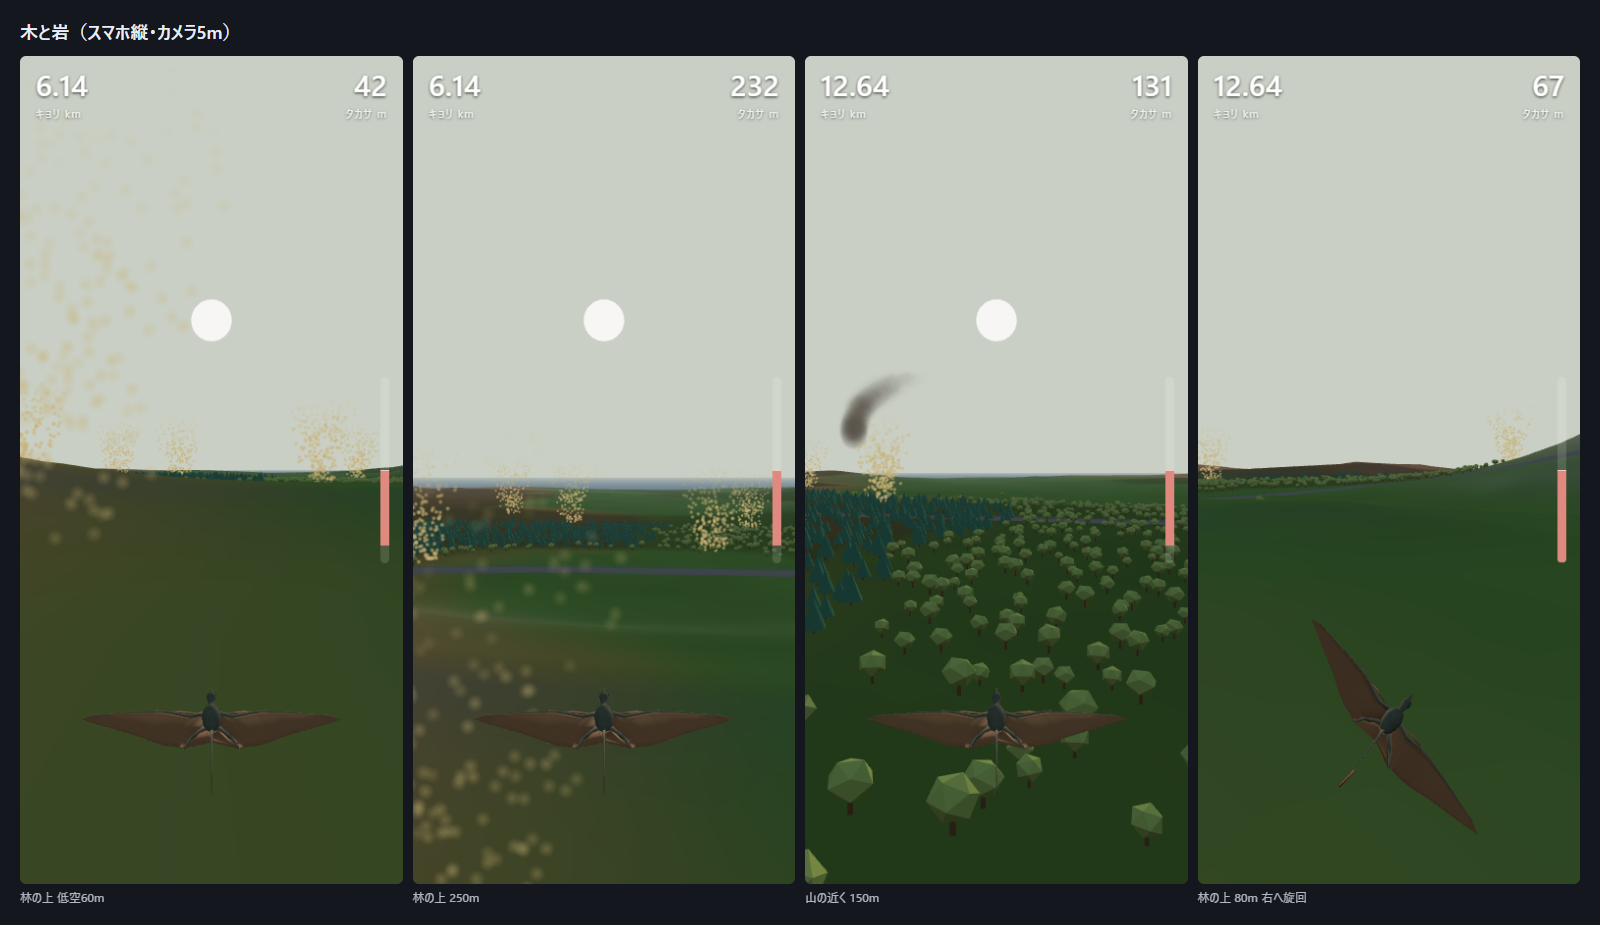
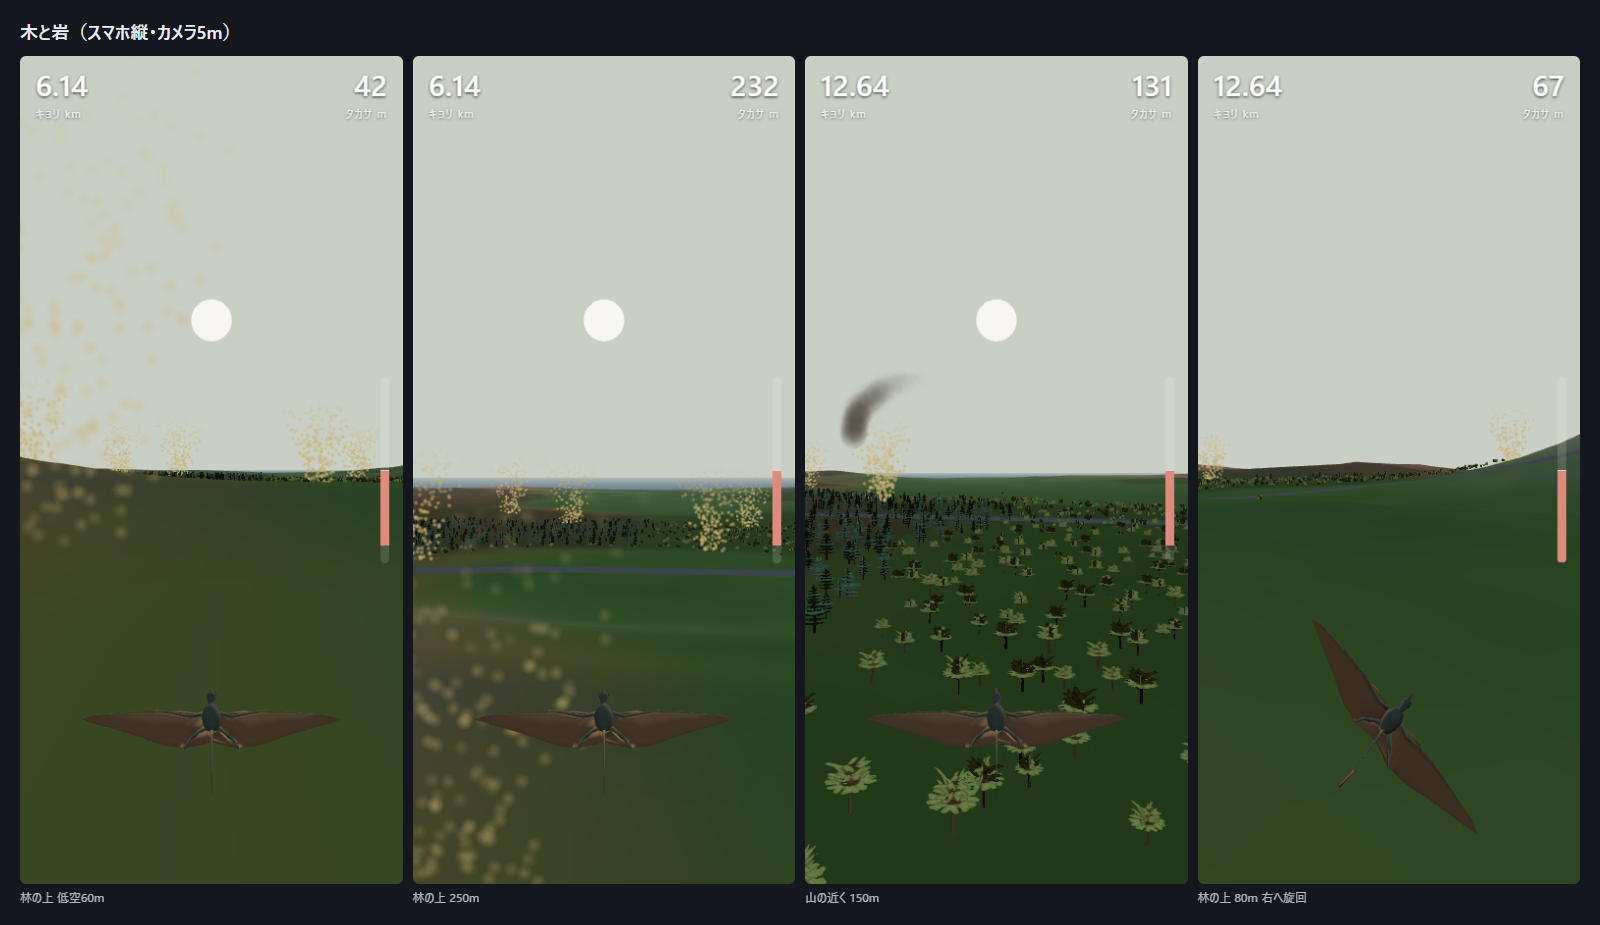
所長の試走の3件: 木の急な切り替わり・距離が増えない・タッチで文字選択
- 遠景の木を、Astraの木を撮った画像の板に(1本6三角形)。90〜150mでディザで少しずつ入れ替え
  以前はClaudeの円錐と多面体で、近づくと別物に切り替わって見えた。普段の三角形 235k -> 87k
- 距離を出発点からの直線距離に。以前は北へ進んだ分だけで、東へ飛ぶと0.00kmのままだった
- ページ全体で文字選択と長押しメニューを止めた(check-noselect を追加)
- check-frame は大きさごとに新しいブラウザで開く(同じブラウザの2ページ目で読み込みが止まる検査環境の罠)

diff --git a/src/scene.js b/src/scene.js
@@ -258,27 +258,81 @@ class Clouds {
   }
 }
 
-// 遠景用の木。原型と同じ大きさ(針葉樹 幅5.2×高さ7.8m / イチョウ 幅4.8×高さ5.7m)で、色は原型の材質の色
-function farTree(kind) {
-  const bark = new THREE.Color(0.16, 0.08, 0.03).multiplyScalar(1.35);
-  const parts = [];
-  const add = (geo, color, y) => {
-    const g = geo.toNonIndexed(); g.translate(0, y, 0);
-    for (const name of Object.keys(g.attributes)) if (name !== 'position' && name !== 'normal') g.deleteAttribute(name);
-    const n = g.attributes.position.count, col = new Float32Array(n * 3);
-    for (let i = 0; i < n; i++) { col[i * 3] = color.r; col[i * 3 + 1] = color.g; col[i * 3 + 2] = color.b; }
-    g.setAttribute('color', new THREE.BufferAttribute(col, 3));
-    parts.push(g);
+// ---- 木の近景と遠景の入れ替え ----
+// 遠景は、読み込んだAstraの木を横と上から撮った画像を板に貼ったもの(1本6三角形)。
+// 以前は円錐と多面体の代わりの形で、近づくと別物に切り替わって見えた(所長「変化が大きすぎて受け入れ難い」)。
+const FADE_NEAR = 90, FADE_FAR = 150;        // この距離の間で、近景と遠景を少しずつ入れ替える
+
+// 近景と遠景で同じ乱れ方を使い、足すとちょうど1本分になるように消す(穴も二重にもならない)
+function addDistanceFade(material, isFar) {
+  material.onBeforeCompile = shader => {
+    shader.uniforms.uFadeA = { value: FADE_NEAR };
+    shader.uniforms.uFadeB = { value: FADE_FAR };
+    shader.vertexShader = shader.vertexShader
+      .replace('void main() {', 'varying float vFadeD;\nvoid main() {')
+      .replace('#include <project_vertex>', [
+        '#include <project_vertex>',
+        '  #ifdef USE_INSTANCING',
+        '    vFadeD = distance((modelMatrix * instanceMatrix * vec4(0.0, 0.0, 0.0, 1.0)).xyz, cameraPosition);',
+        '  #else',
+        '    vFadeD = distance((modelMatrix * vec4(0.0, 0.0, 0.0, 1.0)).xyz, cameraPosition);',
+        '  #endif',
+      ].join('\n'));
+    shader.fragmentShader = shader.fragmentShader
+      .replace('void main() {', 'uniform float uFadeA;\nuniform float uFadeB;\nvarying float vFadeD;\nvoid main() {')
+      .replace('#include <clipping_planes_fragment>', [
+        '#include <clipping_planes_fragment>',
+        '  {',
+        '    float fadeT = clamp((vFadeD - uFadeA) / (uFadeB - uFadeA), 0.0, 1.0);',
+        '    float fadeH = fract(sin(dot(floor(gl_FragCoord.xy), vec2(12.9898, 78.233))) * 43758.5453);',
+        isFar ? '    if (fadeH < 1.0 - fadeT) discard;' : '    if (fadeH > 1.0 - fadeT) discard;',
+        '  }',
+      ].join('\n'));
   };
-  if (kind === 'conifer') {
-    add(new THREE.CylinderGeometry(0.25, 0.35, 1.6, 5, 1, true), bark, 0.8);   // 上下のふたは見えないので省く
-    add(new THREE.ConeGeometry(2.6, 6.4, 7), new THREE.Color(0.05, 0.18, 0.1).multiplyScalar(1.35), 1.4 + 3.2);
-  } else {
-    add(new THREE.CylinderGeometry(0.25, 0.35, 2.6, 5, 1, true), bark, 1.3);
-    const crown = new THREE.IcosahedronGeometry(2.4, 0); crown.scale(1, 0.85, 1);
-    add(crown, new THREE.Color(0.32, 0.45, 0.1).multiplyScalar(1.35), 3.6);
-  }
-  return mergeGeometries(parts, false);
+  material.customProgramCacheKey = () => (isFar ? 'fade-far' : 'fade-near');
+}
+
+// Astraの木を撮って、遠景の板を作る。画像の左半分=横から、右下=上から
+function bakeImpostor(renderer, geo) {
+  geo.computeBoundingBox();
+  const bb = geo.boundingBox;
+  const w = Math.max(bb.max.x - bb.min.x, bb.max.z - bb.min.z), h = bb.max.y - bb.min.y;
+  const rt = new THREE.WebGLRenderTarget(512, 512, { generateMipmaps: true, minFilter: THREE.LinearMipmapLinearFilter });
+  const scene = new THREE.Scene();
+  // 色だけ撮る。光は板の側で当てる
+  scene.add(new THREE.Mesh(geo, new THREE.MeshBasicMaterial({ vertexColors: true, side: THREE.DoubleSide })));
+  const side = new THREE.OrthographicCamera(-w / 2, w / 2, bb.max.y, bb.min.y, 0.1, 1000);
+  side.position.set(0, 0, 500); side.lookAt(0, 0, 0);
+  const top = new THREE.OrthographicCamera(-w / 2, w / 2, w / 2, -w / 2, 0.1, 2000);
+  top.position.set(0, 1000, 0); top.up.set(0, 0, -1); top.lookAt(0, 0, 0);
+  const prevTarget = renderer.getRenderTarget();
+  const prevColor = renderer.getClearColor(new THREE.Color()), prevAlpha = renderer.getClearAlpha();
+  renderer.setRenderTarget(rt);
+  // 透明な背景を黒にすると、遠くで画像を縮めたときに黒と混ざって暗くなった。背景は木自身の平均の色(透明)にする
+  const col = geo.attributes.color.array; const avg = new THREE.Color(0, 0, 0);
+  for (let i = 0; i < col.length; i += 3) { avg.r += col[i]; avg.g += col[i + 1]; avg.b += col[i + 2]; }
+  avg.multiplyScalar(3 / col.length);
+  renderer.setClearColor(avg, 0); renderer.clear();
+  rt.scissorTest = true;
+  rt.viewport.set(0, 0, 256, 512); rt.scissor.set(0, 0, 256, 512); renderer.setRenderTarget(rt); renderer.render(scene, side);
+  rt.viewport.set(256, 0, 256, 256); rt.scissor.set(256, 0, 256, 256); renderer.setRenderTarget(rt); renderer.render(scene, top);
+  rt.scissorTest = false; rt.viewport.set(0, 0, 512, 512); rt.scissor.set(0, 0, 512, 512);
+  renderer.setRenderTarget(prevTarget); renderer.setClearColor(prevColor, prevAlpha);
+  // 十字の縦板2枚＋樹冠の高さの水平板1枚。法線は上向きにそろえ、向きで明るさが変わらないようにする
+  const pos = [], uv = [], nrm = [];
+  const quad = (a, b, c, d, ua, ub, uc, ud) => {
+    for (const [p, u] of [[a, ua], [b, ub], [c, uc], [a, ua], [c, uc], [d, ud]]) { pos.push(...p); uv.push(...u); nrm.push(0, 1, 0); }
+  };
+  const y0 = bb.min.y, y1 = bb.max.y, r = w / 2;
+  quad([-r, y0, 0], [r, y0, 0], [r, y1, 0], [-r, y1, 0], [0, 0], [0.5, 0], [0.5, 1], [0, 1]);
+  quad([0, y0, -r], [0, y0, r], [0, y1, r], [0, y1, -r], [0, 0], [0.5, 0], [0.5, 1], [0, 1]);
+  const yc = y0 + (y1 - y0) * 0.62;
+  quad([-r, yc, r], [r, yc, r], [r, yc, -r], [-r, yc, -r], [0.5, 0], [1, 0], [1, 0.5], [0.5, 0.5]);
+  const g = new THREE.BufferGeometry();
+  g.setAttribute('position', new THREE.Float32BufferAttribute(pos, 3));
+  g.setAttribute('normal', new THREE.Float32BufferAttribute(nrm, 3));
+  g.setAttribute('uv', new THREE.Float32BufferAttribute(uv, 2));
+  return { geo: g, texture: rt.texture };
 }
 
 // 木と岩。種類×近景/遠景ごとに1つの InstancedMesh(描画1回)にまとめる。
@@ -291,65 +345,66 @@ class Forest {
     this.ready = false; this.last = null;
     this.counts = {};
   }
-  async load(baseUrl) {
+  async load(baseUrl, renderer) {
     const loader = new GLTFLoader();
-    const CAP = { lod0: 60, lod1: 12000 };
-    const mat = new THREE.MeshLambertMaterial({ vertexColors: true });
+    const CAP = { lod0: 150, lod1: 12000 };
     for (const kind of ['conifer', 'ginkgo', 'rock']) {
-      for (const lod of ['lod0', 'lod1']) {
-        if (kind === 'rock' && lod === 'lod1') continue;            // 岩は18三角形なので1種類で足りる
-        if (lod === 'lod1') {
-          // 遠景はGLBを減らした版ではなく単純な形。減らした版はイチョウの葉が消えて幹だけになった
-          const geo = farTree(kind);
-          const im = new THREE.InstancedMesh(geo, mat, CAP.lod1);
-          im.count = 0; im.frustumCulled = false;
-          im.userData.tris = geo.attributes.position.count / 3;
-          this.meshes[`${kind}_${lod}`] = im; this.scene.add(im);
-          continue;
-        }
-        const gltf = await loader.loadAsync(`${baseUrl}models/veg/${kind}_${lod}.glb`);
-        const parts = [];
-        gltf.scene.updateMatrixWorld(true);
-        gltf.scene.traverse(o => {
-          if (!o.isMesh) return;
-          const g = o.geometry.clone().applyMatrix4(o.matrixWorld);
-          for (const name of Object.keys(g.attributes)) if (name !== 'position' && name !== 'normal') g.deleteAttribute(name);
-          const c = (o.material && o.material.color) ? o.material.color.clone().multiplyScalar(1.35) : new THREE.Color(0.3, 0.3, 0.3);
-          const n = g.attributes.position.count, col = new Float32Array(n * 3);
-          for (let i = 0; i < n; i++) { col[i * 3] = c.r; col[i * 3 + 1] = c.g; col[i * 3 + 2] = c.b; }
-          g.setAttribute('color', new THREE.BufferAttribute(col, 3));
-          parts.push(g.index ? g : g);
-        });
-        const geo = mergeGeometries(parts, false);
-        const cap = kind === 'rock' ? CAP.lod1 : CAP[lod];
-        const im = new THREE.InstancedMesh(geo, mat, cap);
+      const gltf = await loader.loadAsync(baseUrl + 'models/veg/' + kind + '_lod0.glb');
+      const parts = [];
+      gltf.scene.updateMatrixWorld(true);
+      gltf.scene.traverse(o => {
+        if (!o.isMesh) return;
+        const g = o.geometry.clone().applyMatrix4(o.matrixWorld);
+        for (const name of Object.keys(g.attributes)) if (name !== 'position' && name !== 'normal') g.deleteAttribute(name);
+        const c = (o.material && o.material.color) ? o.material.color.clone().multiplyScalar(1.35) : new THREE.Color(0.3, 0.3, 0.3);
+        const n = g.attributes.position.count, col = new Float32Array(n * 3);
+        for (let i = 0; i < n; i++) { col[i * 3] = c.r; col[i * 3 + 1] = c.g; col[i * 3 + 2] = c.b; }
+        g.setAttribute('color', new THREE.BufferAttribute(col, 3));
+        parts.push(g);
+      });
+      const geo = mergeGeometries(parts, false);
+      const add = (key, g, mat, cap) => {
+        const im = new THREE.InstancedMesh(g, mat, cap);
         im.count = 0; im.frustumCulled = false;
-        im.userData.tris = (geo.index ? geo.index.count : geo.attributes.position.count) / 3;
-        this.meshes[`${kind}_${lod}`] = im;
-        this.scene.add(im);
+        im.userData.tris = (g.index ? g.index.count : g.attributes.position.count) / 3;
+        this.meshes[key] = im; this.scene.add(im);
+      };
+      if (kind === 'rock') {                          // 岩は18三角形なので入れ替えなし
+        add('rock_lod0', geo, new THREE.MeshLambertMaterial({ vertexColors: true }), CAP.lod1);
+        continue;
       }
+      const nearMat = new THREE.MeshLambertMaterial({ vertexColors: true });
+      addDistanceFade(nearMat, false);
+      add(kind + '_lod0', geo, nearMat, CAP.lod0);
+      const imp = bakeImpostor(renderer, geo);
+      const farMat = new THREE.MeshLambertMaterial({ map: imp.texture, alphaTest: 0.4, side: THREE.DoubleSide });
+      addDistanceFade(farMat, true);
+      add(kind + '_lod1', imp.geo, farMat, CAP.lod1);
     }
     this.ready = true;
   }
   update(px, py) {
     if (!this.ready || this.frozen) return;
-    // 150m動くごとに並べ直す(毎コマはやらない)
-    if (this.last && Math.hypot(px - this.last[0], py - this.last[1]) < 150) return;
+    // 40m動くごとに並べ直す。入れ替えの帯(90〜150m)に入る木を、近景と遠景の両方に必ず入れておくため
+    if (this.last && Math.hypot(px - this.last[0], py - this.last[1]) < 40) return;
     this.last = [px, py];
     const idx = {};
     for (const k of Object.keys(this.meshes)) idx[k] = 0;
     const m = new THREE.Matrix4(), q = new THREE.Quaternion(), p = new THREE.Vector3(), sc = new THREE.Vector3(), up = new THREE.Vector3(0, 1, 0);
     for (const it of this.veg.around(px, py)) {
-      let key = it.kind === 'rock' ? 'rock_lod0' : `${it.kind}_${it.near ? 'lod0' : 'lod1'}`;
-      if (it.near && it.kind !== 'rock' && idx[key] >= this.meshes[key].instanceMatrix.count) key = `${it.kind}_lod1`;   // 近景が満杯なら遠景の形で
-      const im = this.meshes[key];
-      if (!im || idx[key] >= im.instanceMatrix.count) continue;
       const s = VEG.scale[it.kind] * it.s;
       q.setFromAxisAngle(up, it.rot);
       p.set(SX * it.x, it.z - 0.4 * s, it.y);          // 斜面でも浮かないよう少し沈める
       sc.set(s, s, s);
       m.compose(p, q, sc);
-      im.setMatrixAt(idx[key]++, m);
+      // 近景と遠景のどちらに入れるか。帯の前後に並べ直しの間隔(40m)ぶん余裕を持たせる。描く/消すはシェーダが距離で決める
+      const keys = it.kind === 'rock' ? ['rock_lod0']
+        : [...(it.d <= FADE_FAR + 50 ? [it.kind + '_lod0'] : []), ...(it.d >= FADE_NEAR - 50 ? [it.kind + '_lod1'] : [])];
+      for (const key of keys) {
+        const im = this.meshes[key];
+        if (!im || idx[key] >= im.instanceMatrix.count) continue;
+        im.setMatrixAt(idx[key]++, m);
+      }
     }
     for (const [k, im] of Object.entries(this.meshes)) {
       im.count = idx[k];

diff --git a/src/main.js b/src/main.js
@@ -38,7 +38,7 @@ const camk = Number(q.get('camk'));                              // 調整用: ?
 const SIZE = q.has('camk') && camk > 0 ? { ...SIZES[SIZE_KEY], cam: camk } : SIZES[SIZE_KEY];
 const view = new View(el('app'), terrain, field, camOf(CAM_KEY), SIZE);
 if (!q.has('box')) view.loadModel(import.meta.env.BASE_URL + 'models/rh02.glb');   // ?box で灰色の箱のまま
-if (!q.has('notrees')) view.forest.load(import.meta.env.BASE_URL).catch(e => console.error('木の読み込みに失敗', e));   // ?notrees で木なし(比較用)
+if (!q.has('notrees')) view.forest.load(import.meta.env.BASE_URL, view.renderer).catch(e => console.error('木の読み込みに失敗', e));   // ?notrees で木なし(比較用)
 
 // スタート画面のカメラ選択。選んだものは次回も使う
 const camButtons = [...document.querySelectorAll('#cams button')];
@@ -69,6 +69,9 @@ cv.addEventListener('pointermove', e => { if (touch.has(e.pointerId)) touch.set(
 const drop = e => touch.delete(e.pointerId);
 cv.addEventListener('pointerup', drop);
 cv.addEventListener('pointercancel', drop);
+// 長押しでメニューや選択が出ないように
+addEventListener('contextmenu', e => e.preventDefault());
+addEventListener('selectstart', e => e.preventDefault());
 
 function input(dt) {
   if (window.__slice && typeof window.__slice.forceInput === 'number') return window.__slice.forceInput;
@@ -146,6 +149,7 @@ window.__slice = {
   sizeKey: SIZE_KEY,
   modelReady: () => view.modelReady,
   forestReady: () => view.forest.ready,
+  trees: (x, y) => view.forest.veg.around(x, y).filter(t => t.kind !== 'rock').slice(0, 4000),
   vegLineup(dist) { view.forest.lineup(glider.x, glider.y, terrain.height(glider.x, glider.y + (dist || 140)), dist); },
   forest: () => ({ counts: view.forest.counts, tris: view.forest.triangles(), frameTris: view.renderer.info.render.triangles, calls: view.renderer.info.render.calls }),
   bone: name => view.boneInfo(name),

diff --git a/src/flight.js b/src/flight.js
@@ -21,6 +21,7 @@ export class Glider {
   constructor(terrain, field, opts = {}) {
     this.t = terrain; this.f = field;
     this.x = opts.x || 0; this.y = opts.y || 0;
+    this.x0 = this.x; this.y0 = this.y;   // 距離は出発点からの直線距離で数える
     this.z = this.t.height(this.x, this.y) + (opts.alt ?? AIR.startAlt);
     this.head = 0; this.bank = 0; this.time = 0; this.inp = 0;
     this.vz = 0; this.lift = 0; this.alive = true; this.best = 0;
@@ -44,7 +45,8 @@ export class Glider {
     this.x += V * Math.sin(this.head) * dt;
     this.y += V * Math.cos(this.head) * dt;
     this.time += dt;
-    this.best = Math.max(this.best, this.y);
+    // 以前は北(+y)へ進んだ分だけ数えていて、東や南へ飛ぶと距離が増えなかった(所長「途中からカウントされなくなる」)
+    this.best = Math.max(this.best, Math.hypot(this.x - this.x0, this.y - this.y0));
     if (this.agl <= 2) { this.alive = false; this.z = this.t.height(this.x, this.y) + 2; }
   }
 }

diff --git a/index.html b/index.html
@@ -9,6 +9,8 @@
   :root { color-scheme: dark; }
   * { margin:0; padding:0; box-sizing:border-box; -webkit-tap-highlight-color:transparent; }
   html,body { height:100%; overflow:hidden; background:#0b0e13; font-family:system-ui,sans-serif; }
+  /* 押しっぱなしで操作するので、文字の選択と長押しメニューを出さない(スマホで「コピー/選択部分を検索」が出ていた) */
+  html,body,#app,#hud,#msg,#start,canvas { -webkit-user-select:none; user-select:none; -webkit-touch-callout:none; }
   #app { position:fixed; inset:0; }
   canvas { display:block; width:100%; height:100%; touch-action:none; }
   #hud { position:fixed; inset:0; pointer-events:none; padding:env(safe-area-inset-top) 16px 16px; }

diff --git a/src/world.js b/src/world.js
@@ -290,7 +290,7 @@ export class Vegetation {
     for (let i = ci0 - n; i <= ci0 + n; i++) for (let j = cj0 - n; j <= cj0 + n; j++) {
       for (const it of this.cellItems(i, j)) {
         const d = Math.hypot(it.x - px, it.y - py);
-        if (d <= VEG.radius) out.push({ ...it, near: d <= VEG.near });
+        if (d <= VEG.radius) out.push({ ...it, d, near: d <= VEG.near });
       }
     }
     return out;

diff --git a/docs/FINDINGS.md b/docs/FINDINGS.md
@@ -219,3 +219,21 @@ Astraに山を頼む前に、使える寸法を決めるための試作。
 - 霞: 空と霧を暖かい灰色に、少し濃く
 
 **Astraへの発注**: `_LAB_HQ/inbox/2026-09-17_16-30-00_mesozoic-flora-for-glide.md`（ナンヨウスギ型の大木 → 木生シダ → ソテツ。近景1,500/遠景60三角形まで、色のみ、200KBまで、上空300m/150mの見え方画像つき）
+
+## 所長の試走で出た3件（2026-09-17）
+
+**1. 近づくと木が突然変わる**（「変化が大きすぎて受け入れ難い」）
+- 原因: 遠景がClaudeの円錐と多面体で、Astraの木（枝のまばらな針葉樹）と別物だった。150mで一瞬で切り替わっていた
+- 対策: 遠景を、読み込んだAstraの木を横と上から撮った画像の板（十字2枚＋水平1枚、1本6三角形）に。90〜150mの間で近景と遠景をディザで少しずつ入れ替え（同じ乱れ方を補い合うように使うので、穴も二重にもならない）
+- 途中の失敗: 透明な背景を黒で塗ると、遠くで画像を縮めたときに黒と混ざってイチョウが暗くなった → 背景を木の平均色（透明）に
+- 確認: 一本木に300m→60mで近づく連続画像で、形と色が続いている（tools/shot-approach.mjs）
+- 三角形: 普段の場面 235k → **87k**。山の近くは318k（近くのイチョウ1本4,604三角形が重い）
+
+**2. 距離が途中からカウントされない**（以前からあった）
+- 原因: 距離を「北(+y)へ進んだ分」だけで数えていた。東へ1.92km飛んでも 0.00km
+- 対策: 出発点からの直線距離（途中で一番離れた値）。回り続けても増えない（60秒で77m）
+
+**3. スマホで押すと文字が選択される**
+- 対策: ページ全体で選択と長押しメニューを止めた（CSS＋contextmenu/selectstart）。tools/check-noselect.mjs を run-checks に追加
+
+**検査環境の罠**: 同じブラウザで2ページ目を開くと読み込みが止まることがある（実際の起動は0.6秒）。check-frame は大きさごとに新しいブラウザで開くようにした
